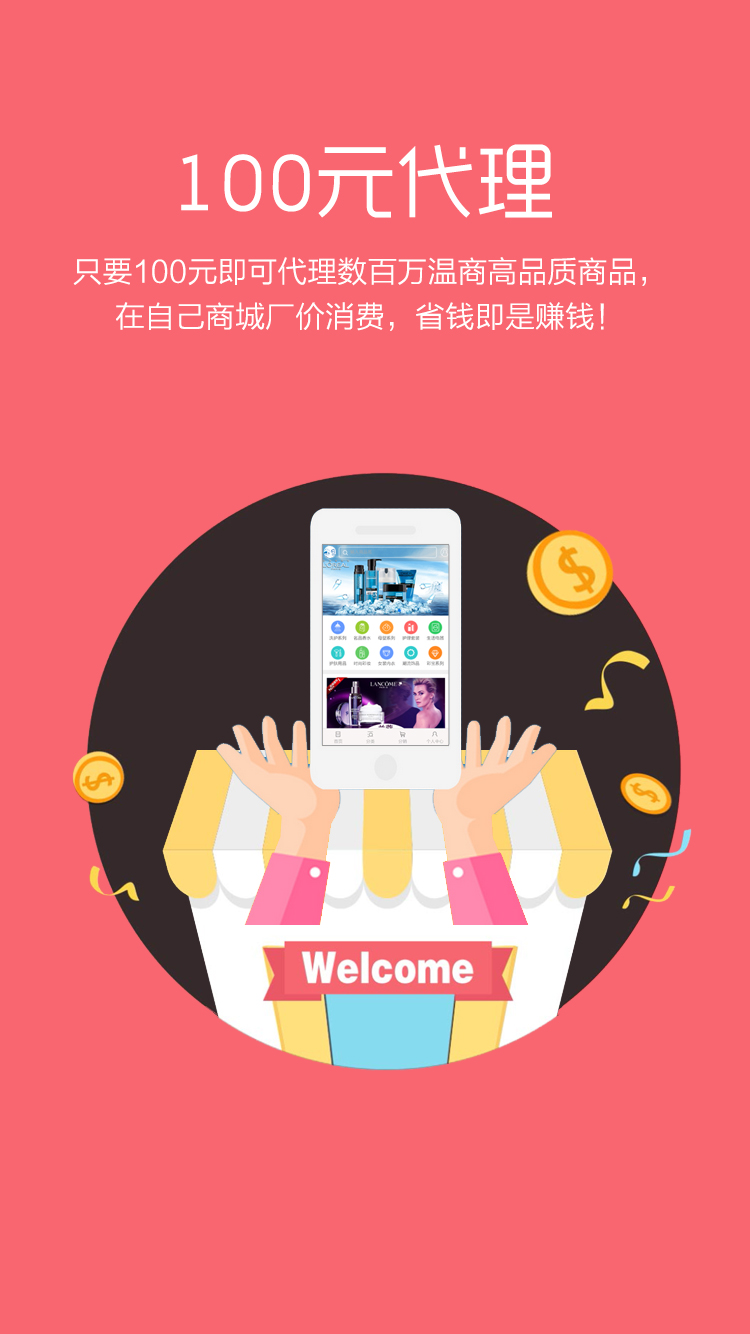
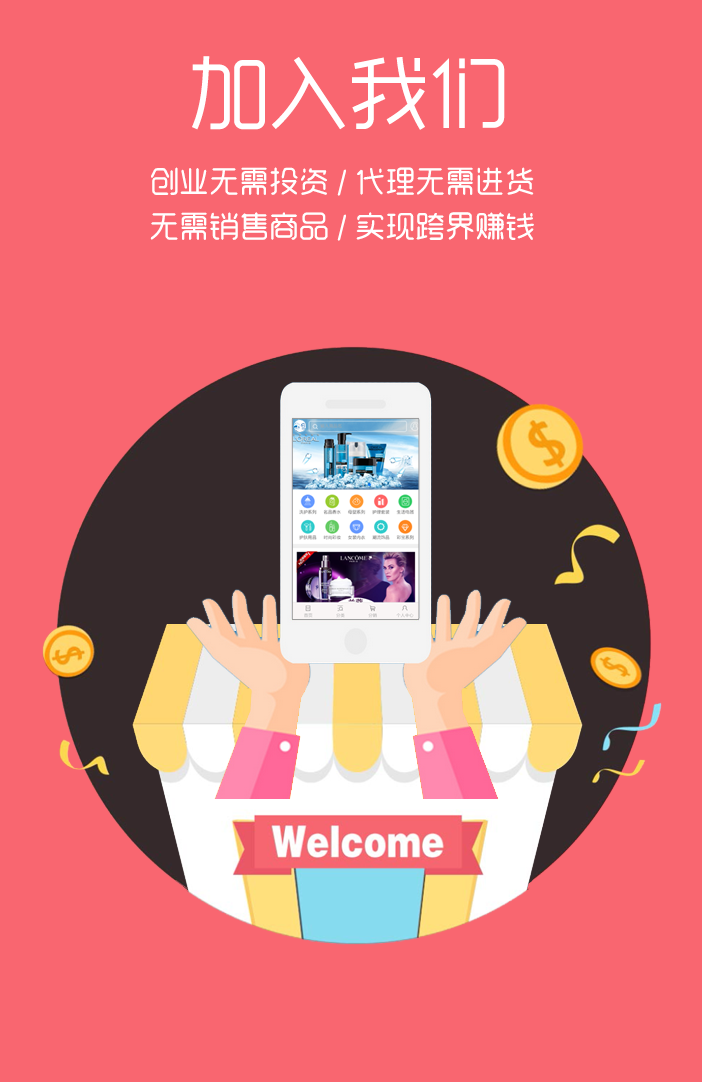
2016-6-17 all day update.

Changed region(s): [[0.0598, 0.305, 0.9573, 0.8845], [0.0897, 0.0305, 0.8675, 0.244]]

diff --git a/h5/index.html b/h5/index.html
@@ -12,29 +12,29 @@
 <div class="swiper-container">
 	<div class="swiper-wrapper"> 
 		<!--首页-->
-		<div class="swiper-slide page1"> <img src="img/1.png" /> <a href="/wap/" class="entrance">进入我的店铺</a> <a class="APP" href="#">马上推荐给TA</a> <img class="arrows" src="img/kd_h5_ico.png" /> </div>
+		<div class="swiper-slide page1"> <img src="img/1.png" /> <a href="/wap/" class="entrance">进入我的店铺</a> <!--<a class="APP" href="#">马上推荐给TA</a>--> <img class="arrows" src="img/kd_h5_ico.png" /> </div>
 		<!--电商新高度-->
-		<div class="swiper-slide page2"> <img src="img/2.png" /> <a href="/wap/" class="entrance">进入我的店铺</a> <a class="APP" href="#">马上推荐给TA</a> <img class="arrows" src="img/kd_h5_ico.png" /> </div>
+		<div class="swiper-slide page2"> <img src="img/2.png" /> <a href="/wap/" class="entrance">进入我的店铺</a> <!--<a class="APP" href="#">马上推荐给TA</a>--> <img class="arrows" src="img/kd_h5_ico.png" /> </div>
 		<!--B2B B2C-->
-		<div class="swiper-slide page3"> <img src="img/3.png" /> <a href="/wap/" class="entrance">进入我的店铺</a> <a class="APP" href="#">马上推荐给TA</a> <img class="arrows" src="img/kd_h5_ico.png" /> </div>
+		<div class="swiper-slide page3"> <img src="img/3.png" /> <a href="/wap/" class="entrance">进入我的店铺</a> <!--<a class="APP" href="#">马上推荐给TA</a>--> <img class="arrows" src="img/kd_h5_ico.png" /> </div>
 		<!--特色扫码-->
-		<div class="swiper-slide page4"> <img src="img/4.png" /> <a href="/wap/" class="entrance">进入我的店铺</a> <a class="APP" href="#">马上推荐给TA</a> <img class="arrows" src="img/kd_h5_ico.png" /> </div>
+		<div class="swiper-slide page4"> <img src="img/4.png" /> <a href="/wap/" class="entrance">进入我的店铺</a> <!--<a class="APP" href="#">马上推荐给TA</a>--> <img class="arrows" src="img/kd_h5_ico.png" /> </div>
 		<!--价格最低-->
-		<div class="swiper-slide page5"> <img src="img/5.png" /> <a href="/wap/" class="entrance">进入我的店铺</a> <a class="APP" href="#">马上推荐给TA</a> <img class="arrows" src="img/kd_h5_ico.png" /> </div>
+		<div class="swiper-slide page5"> <img src="img/5.png" /> <a href="/wap/" class="entrance">进入我的店铺</a> <!--<a class="APP" href="#">马上推荐给TA</a>--> <img class="arrows" src="img/kd_h5_ico.png" /> </div>
 		<!--盈利模式-->
-		<div class="swiper-slide page6"> <img src="img/6.png" /> <a href="/wap/" class="entrance">进入我的店铺</a> <a class="APP" href="#">马上推荐给TA</a> <img class="arrows" src="img/kd_h5_ico.png" /> </div>
+		<div class="swiper-slide page6"> <img src="img/6.png" /> <a href="/wap/" class="entrance">进入我的店铺</a> <!--<a class="APP" href="#">马上推荐给TA</a>--> <img class="arrows" src="img/kd_h5_ico.png" /> </div>
 		<!--配货/发货-->
-		<div class="swiper-slide page7"> <img src="img/7.png" /> <a href="/wap/" class="entrance">进入我的店铺</a> <a class="APP" href="#">马上推荐给TA</a> <img class="arrows" src="img/kd_h5_ico.png" /> </div>
+		<div class="swiper-slide page7"> <img src="img/7.png" /> <a href="/wap/" class="entrance">进入我的店铺</a> <!--<a class="APP" href="#">马上推荐给TA</a>--> <img class="arrows" src="img/kd_h5_ico.png" /> </div>
 		<!--推广易上手-->
-		<div class="swiper-slide page8"> <img src="img/8.png" /> <a href="/wap/" class="entrance">进入我的店铺</a> <a class="APP" href="#">马上推荐给TA</a> <img class="arrows" src="img/kd_h5_ico.png" /> </div>
+		<div class="swiper-slide page8"> <img src="img/8.png" /> <a href="/wap/" class="entrance">进入我的店铺</a> <!--<a class="APP" href="#">马上推荐给TA</a>--> <img class="arrows" src="img/kd_h5_ico.png" /> </div>
 		<!--v特色大奖-->
-		<div class="swiper-slide page9"> <img src="img/9.png" /> <a href="/wap/" class="entrance">进入我的店铺</a> <a class="APP" href="#">马上推荐给TA</a> <img class="arrows" src="img/kd_h5_ico.png" /> </div>
+		<div class="swiper-slide page9"> <img src="img/9.png" /> <a href="/wap/" class="entrance">进入我的店铺</a> <!--<a class="APP" href="#">马上推荐给TA</a>--> <img class="arrows" src="img/kd_h5_ico.png" /> </div>
 		<!--v代理特权-->
-		<div class="swiper-slide page10"> <img src="img/10.png" /> <a href="/wap/" class="entrance">进入我的店铺</a> <a class="APP" href="#">马上推荐给TA</a> <img class="arrows" src="img/kd_h5_ico.png" /> </div>
+		<div class="swiper-slide page10"> <img src="img/10.png" /> <a href="/wap/" class="entrance">进入我的店铺</a> <!--<a class="APP" href="#">马上推荐给TA</a>--> <img class="arrows" src="img/kd_h5_ico.png" /> </div>
 		<!--最后页面-->
-		<div class="swiper-slide page11"> <img src="img/11.png" /> <a href="/wap/" class="entrance">进入我的店铺</a> <a class="APP" href="#">马上推荐给TA</a> <img class="arrows" src="img/kd_h5_ico.png" /> </div>
+		<div class="swiper-slide page11"> <img src="img/11.png" /> <a href="/wap/" class="entrance">进入我的店铺</a> <!--<a class="APP" href="#">马上推荐给TA</a>--> <img class="arrows" src="img/kd_h5_ico.png" /> </div>
 		<!--最后页面-->
-		<div class="swiper-slide page12"> <img src="img/12.png" /> <a href="/wap/" class="entrance">进入我的店铺</a> <a class="APP" href="#">马上推荐给TA</a> <!--<img class="arrows" src="img/kd_h5_ico.png" /> </div>
+		<div class="swiper-slide page12"> <img src="img/12.png" /> <a href="/wap/" class="entrance">进入我的店铺</a> <!--<a class="APP" href="#">马上推荐给TA</a>--> <!--<img class="arrows" src="img/kd_h5_ico.png" /> </div>
 	</div>
 	<!-- 如果需要分页器 --> 
 	<!-- <div class="swiper-pagination"></div>--> 

diff --git a/template/index/default/public/footer.php b/template/index/default/public/footer.php
@@ -24,18 +24,18 @@
 				</dd>
 				<dd> <strong>购物指南</strong>
 					<a target="_blank" href="/help/112/122.html">购物流程</a>
-					<a target="_blank" href="/help/111/123.html">交易条款</a>
+					<a target="_blank" href="/help/112/123.html">交易条款</a>
 					<a target="_blank" href="/help/112/124.html">常见问题</a>
 				</dd>
 				<dd> <strong>配送方式</strong>
-					<a target="_blank" href="/help/114/125.html">商品配送</a>
-					<a target="_blank" href="/help/114/126.html">验货与签收</a>
-					<a target="_blank" href="/help/114/127.html">长时间未收到商品</a>
+					<a target="_blank" href="/help/113/125.html">商品配送</a>
+					<a target="_blank" href="/help/113/126.html">验货与签收</a>
+					<a target="_blank" href="/help/113/127.html">长时间未收到商品</a>
 				</dd>
 				<dd> <strong>支付方式</strong>
-					<a target="_blank" href="/help/113/131.html">在线支付</a>
-					<a target="_blank" href="/help/113/132.html">货到付款</a>
-					<a target="_blank" href="/help/113/133.html">优惠券使用</a>
+					<a target="_blank" href="/help/114/131.html">在线支付</a>
+					<a target="_blank" href="/help/114/132.html">货到付款</a>
+					<a target="_blank" href="/help/114/133.html">优惠券使用</a>
 				</dd>
 				<dd> <strong>售后服务</strong>
 					<a target="_blank" href="/help/115/128.html">售后政策</a>
@@ -74,7 +74,12 @@
 		</div>--> 
 	</div>
 </div>
-
+<div style="display:none;">
+<script type="text/javascript">
+var cnzz_protocol = (("https:" == document.location.protocol) ? " https://" : " http://");
+document.write(unescape("%3Cspan id='cnzz_stat_icon_1259591443'%3E%3C/span%3E%3Cscript src='" + cnzz_protocol + "s11.cnzz.com/stat.php%3Fid%3D1259591443%26show%3Dpic' type='text/javascript'%3E%3C/script%3E"));
+</script>
+</div>
 <!--二维码弹出层-->
 <style type="text/css">
 .right-red-radius {background-color: #fff;border-radius: 10px;}

diff --git a/template/index/default/help/index.php b/template/index/default/help/index.php
@@ -54,13 +54,13 @@ var is_selffetch = <?php echo $order_store['buyer_selffetch'] ? 'true' : 'false'
 
 <!-- 主体部分开始 -->
 <div class="help_wrap">
-	<div class="help_top clearfix"> <span class="f18 fwr fl help_tit"><a  href="#">帮助中心</a></span> <span class="deep_red f13 fwr fl">Hi~，欢迎您来到帮助中心。</span>
-		<div class="fr u_search">
+	<div class="help_top clearfix"> <span class="f18 fwr fl help_tit"><a  href="/help.html">帮助中心</a></span> <span class="deep_red f13 fwr fl">Hi~，欢迎您来到帮助中心。</span>
+		<!--<div class="fr u_search">
 			<form action="<?php url('help:index'); ?>" method="GET">
 				<input type="text" class="J_sch_in u_sch_in fl" value="请输入关键字" name="keyword">
 				<input type="submit" class="btns btn_gray_5128 fl u_sch_btn" value="搜索">
 			</form>
-		</div>
+		</div>-->
 	</div>
 	<div class="help_main clearfix">
 		<div class="help_leftside fl">
@@ -93,7 +93,7 @@ var is_selffetch = <?php echo $order_store['buyer_selffetch'] ? 'true' : 'false'
 			?>
 		</div>
 		<div class="help_rightside fr">
-			<div class="u_crumb"> <a  href="./help.html">帮助中心</a> &gt; <a  href="./help.html"><?php echo ($help_categories[$cat_fid]['cat_name']); ?></a> &gt; <a href="./help.html"><?php echo ($help_categories[$cat_fid]['children'][$cat_id]['cat_name']); ?></a><!--&gt; <strong>唯品币</strong>--> </div>
+			<div class="u_crumb"> <a  href="/help.html">帮助中心</a> &gt; <a  href="/help.html"><?php echo ($help_categories[$cat_fid]['cat_name']); ?></a> &gt; <a href="/help.html"><?php echo ($help_categories[$cat_fid]['children'][$cat_id]['cat_name']); ?></a><!--&gt; <strong>唯品币</strong>--> </div>
 			<div class="u_tab_con">
 				<div class="u_tab_con_item">
 					<ul class="h_comm_faq J_comm_faq">

diff --git a/template/wap/default/drp_ucenter.php b/template/wap/default/drp_ucenter.php
@@ -62,7 +62,7 @@
 			 <ul>
         			<li>
                 			<a  href="./drp_store.php?a=edit">
-        						<img src="<?php echo TPL_URL; ?>images/tb//dpgl.png" alt="">
+        						<img src="<?php echo TPL_URL; ?>images/tb/dpgl.png" alt="">
                 				<p>店铺信息</p>
                 			</a>
                 		</li>
@@ -80,7 +80,7 @@
                 		</li>
         			<li>
                 			<a  href="./qrcode.php">
-        						<img src="<?php echo TPL_URL; ?>images/tb//ewm.png" alt="">
+        						<img src="<?php echo TPL_URL; ?>images/tb/ewm.png" alt="">
                 				<p>店铺二维码</p>
                 			</a>
                 		</li>

diff --git a/source/tp/Project/tpl/Adver/cat_edit.php b/source/tp/Project/tpl/Adver/cat_edit.php
@@ -4,8 +4,8 @@
     <table cellpadding="0" cellspacing="0" class="frame_form" width="100%">
         <tr>
             <th width="80">分类名称</th>
-            <td><input type="text" class="input fl" name="cat_name" value="{pigcms{$now_category.cat_name}" size="20"
-                       placeholder="请输入名称" validate="required:true"/></td>
+            <td><input type="text" class="input fl" name="cat_name" value="{pigcms{$now_category.cat_name}" size="10"
+                       placeholder="请输入名称" validate="maxlength:20,required:true"/></td>
         </tr>
         <tr>
             <th width="80">分类标识</th>

diff --git a/template/user/default/public/footer.php b/template/user/default/public/footer.php
@@ -10,3 +10,9 @@
         <i>©</i> <?php echo getUrlTopDomain($config['site_url']); ?>
     <?php } ?>
 </footer>
+<div style="display:none;">
+<script type="text/javascript">
+var cnzz_protocol = (("https:" == document.location.protocol) ? " https://" : " http://");
+document.write(unescape("%3Cspan id='cnzz_stat_icon_1259591443'%3E%3C/span%3E%3Cscript src='" + cnzz_protocol + "s11.cnzz.com/stat.php%3Fid%3D1259591443%26show%3Dpic' type='text/javascript'%3E%3C/script%3E"));
+</script>
+</div>

diff --git a/static/kindeditor/php/upload_json.php b/static/kindeditor/php/upload_json.php
@@ -13,9 +13,9 @@ $php_path = dirname(__FILE__) . '/';
 $php_url = dirname($_SERVER['PHP_SELF']) . '/';
 
 //文件保存目录路径
-$save_path = $php_path . '../attached/';
+$save_path = $php_path . '../../../upload/editor/';
 //文件保存目录URL
-$save_url = $php_url . '../attached/';
+$save_url = $php_url . '../../../upload/editor/';
 //定义允许上传的文件扩展名
 $ext_arr = array(
 	'image' => array('gif', 'jpg', 'jpeg', 'png', 'bmp'),

diff --git a/source/tp/Project/Lib/Action/HelpAction.class.php b/source/tp/Project/Lib/Action/HelpAction.class.php
@@ -234,6 +234,12 @@ class HelpAction extends BaseAction
 
 		if (IS_POST) {
 			$cat_id = $this->_post('cat_id', 'trim,intval');
+//            $now_cat = $category->find($cat_id);
+
+			if ($this->_post('property', 'trim') == '') {
+				$this->frame_submit_tips(0, '分类属性不能为空！');
+			}
+
 			$data = array();
 			$data['cat_fid'] = $this->_post('parent_id', 'trim,intval');
 			$data['cat_name'] = $this->_post('name', 'trim');
